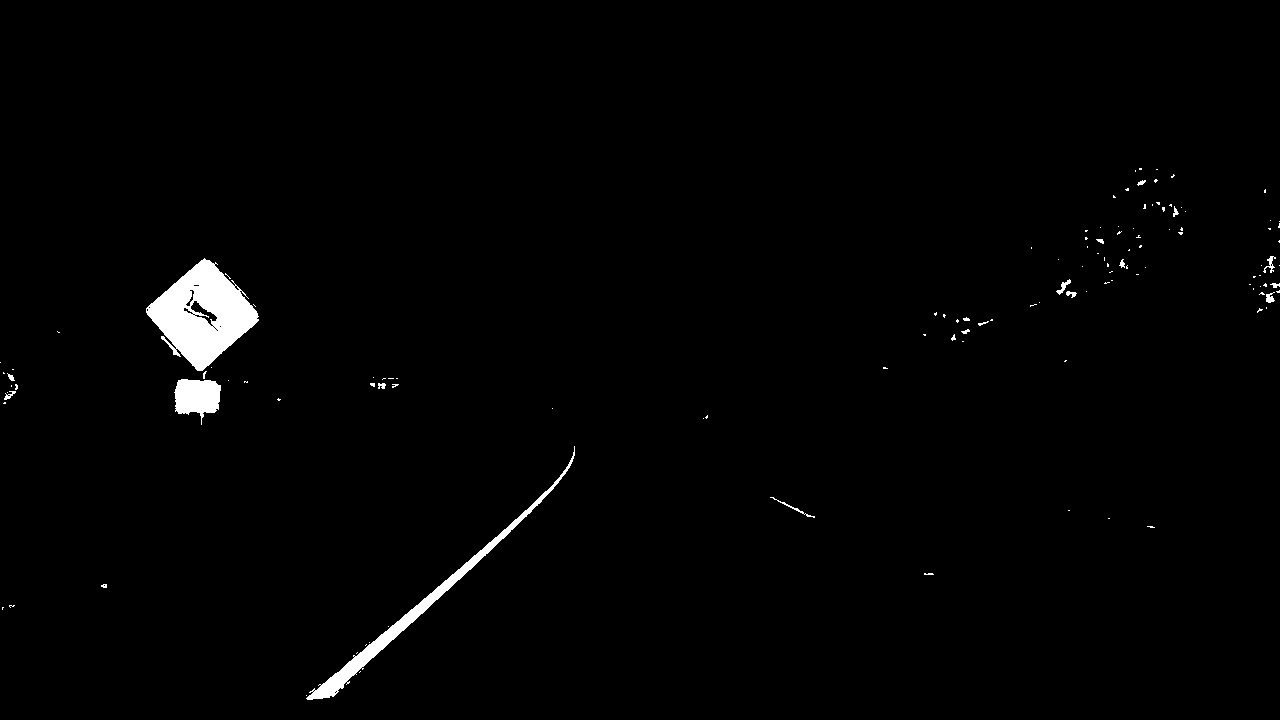
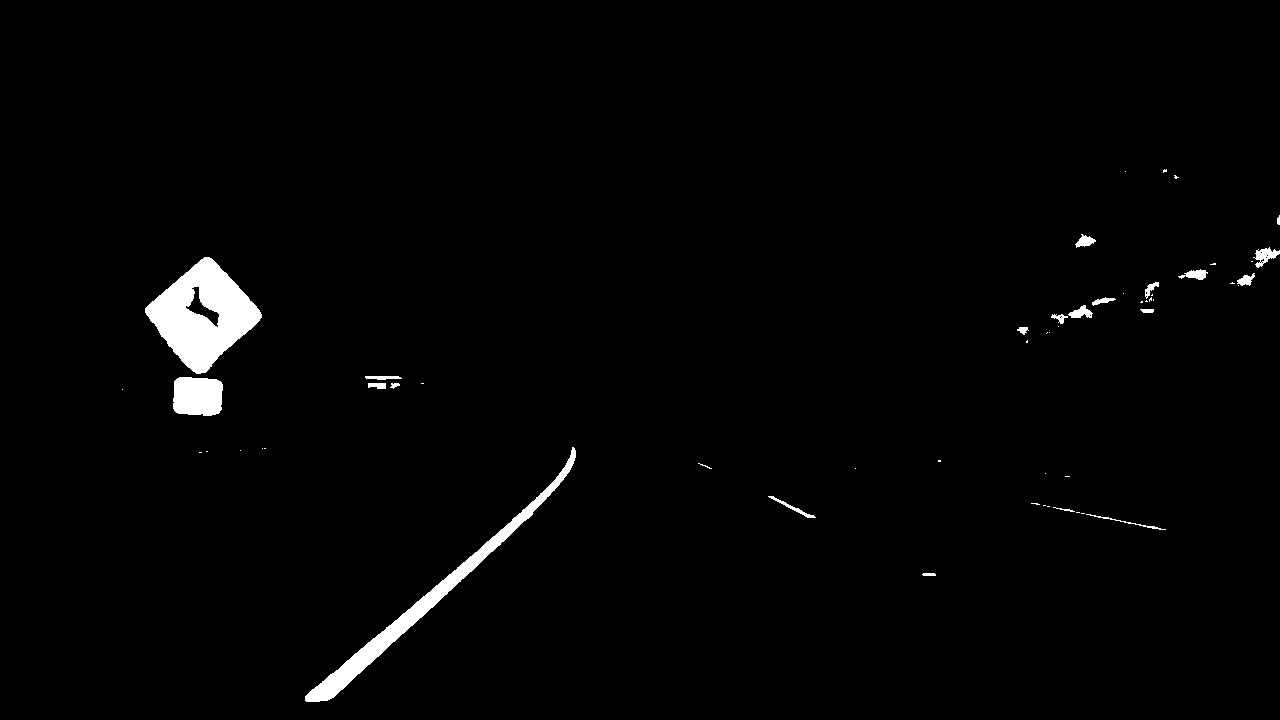
adjusted color treshholding

diff --git a/README.md b/README.md
@@ -63,22 +63,47 @@ undistortedFrame = cv2.undistort(originalFrame, mtx, dist, None, mtx)
 In the function get_warped_binary we do all the steps recommended in Lesson 8, Gradients and Color spaces. This includes converting the image to HLS color space and using Sobel on the L channel in the x direction (x-gradient). Additionally we absolute the x derivative to accentuate lines away from horizontal. Finally we normalize sobelx values and we create a binary image by using some treshholds. Note: to view your binary image use ```  cv2.imshow('sxbinary', sxbinary*255) ``` (multiplay the image by 255, otherwise its black!)
 
 ```
-# Convert to HLS color space and separate the V channel
-hls = cv2.cvtColor(img, cv2.COLOR_RGB2HLS)
-l_channel = hls[:,:,1]
-s_channel = hls[:,:,2]
+# this function applies sobel and returns a binary imagae
+def abs_sobel_thresh(img, orient='x', thresh_min=0, thresh_max=255):
+    
+    # Convert to HLS color space and separate the V channel
+    hls = cv2.cvtColor(img, cv2.COLOR_RGB2HLS)
+    l_channel = hls[:,:,1]
 
-# Sobel x
-sobelx = cv2.Sobel(l_channel, cv2.CV_64F, 1, 0) # Take the derivative in x
-abs_sobelx = np.absolute(sobelx) # Absolute x derivative to accentuate lines away from horizontal
-scaled_sobel = np.uint8(255*abs_sobelx/np.max(abs_sobelx))
+    # Sobel x
+    sobelx = cv2.Sobel(l_channel, cv2.CV_64F, 1, 0) # Take the derivative in x
+    abs_sobelx = np.absolute(sobelx) # Absolute x derivative to accentuate lines away from horizontal
+    scaled_sobel = np.uint8(255*abs_sobelx/np.max(abs_sobelx))
 
-# Threshold x gradient
-sxbinary = np.zeros_like(scaled_sobel)
-sxbinary[(scaled_sobel >= sx_thresh[0]) & (scaled_sobel <= sx_thresh[1])] = 1
+    # Threshold x gradient
+    sxbinary = np.zeros_like(scaled_sobel)
+    sxbinary[(scaled_sobel >= thresh_min) & (scaled_sobel <= thresh_max)] = 1
+
+    # Return the result
+    return sxbinary
 ```
 
-The resulting image looks like this (x-gradient): ![sxbinary.jpg](./output_images/sxbinary.jpg)
+The resulting image after calling this function, the result looks like this (x-gradient): ![sxbinary.jpg](./output_images/sxbinary.jpg)
+
+
+Afterwards we do color treshholding. 
+```
+# this function applies color treshholding and returns a binary imagae
+def color_treshholding(img, min_l_channel=225, min_b_channel=155):
+    
+    l_channel = cv2.cvtColor(img, cv2.COLOR_BGR2LUV)[:,:,0]
+    b_channel = cv2.cvtColor(img, cv2.COLOR_BGR2LAB)[:,:,2]
+    
+    # create a binary image
+    s_binary = np.zeros(img.shape[:2], dtype=np.uint8)
+    s_binary[((min_l_channel <= l_channel) | (min_b_channel <= b_channel))] = 1
+
+    # Return the result
+    return s_binary
+
+```
+
+The resulting image looks like this (x-gradient): ![sxbinary.jpg](./output_images/s_binary.jpg)
 
 After this we treshhold the s_channel (as recommended in Lessom 8)
 
